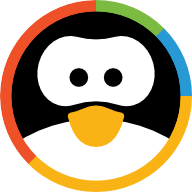
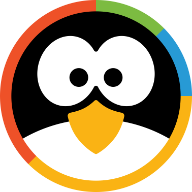
SEO, Abine Discount Code, Resources Updates, & More!
- Added Abine Discount code to resources
- SEO Updates
- Re-organized Official Accounts List, added 'inactive' section
- Added Bluesky & Teachable to our official accounts list
- Added KeePass client section to our resources
- Fixed favicons

diff --git a/about.html b/about.html
@@ -16,23 +16,23 @@
   <meta property="og:image" content="/assets/techlorePreview.png" />
   <meta property="og:type" content="website" />
   <meta property="og:url" content="https://techlore.tech/about"/>
-  <meta property="og:title" content="Techlore: Spreading Privacy To The Masses" />
-  <meta property="og:description" content="Techlore was built to prove privacy is not just achievable, but simple and accessible. Our mission is to spread privacy & security to the masses."/>
+  <meta property="og:title" content="About Techlore: Spreading Privacy To The Masses" />
+  <meta property="og:description" content="About Techlore and how we are spreading privacy & security to the masses."/>
 
   <link rel="stylesheet" href="assets/css/style.css?t=129" type="text/css">
   <title> Techlore | About </title>
-  <meta name="title" content="Techlore: Spreading Privacy To The Masses">
+  <meta name="title" content="About Techlore: Spreading Privacy To The Masses">
   <meta name="description"
-    content="Techlore was built to prove privacy is not just achievable, but simple and accessible. Our mission is to spread privacy & security to the masses." />
+    content="About Techlore and how we are spreading privacy & security to the masses." />
   <!-- Google / Search Engine Tags -->
   <meta itemprop="name" content=" Techlore | About ">
   <meta itemprop="description"
-    content="Techlore was built to prove privacy is not just achievable, but simple and accessible. Our mission is to spread privacy & security to the masses.">
+    content="About Techlore and how we are spreading privacy & security to the masses.">
   <meta itemprop="image" content="./assets/svg/logo_v2.svg"><!-- Twitter Meta Tags -->
   <meta name="twitter:card" content="summary_large_image">
-  <meta name="twitter:title" content=" Techlore | Spreading Privacy To The Masses ">
+  <meta name="twitter:title" content=" About Techlore | Spreading Privacy To The Masses ">
   <meta name="twitter:description"
-    content="Techlore was built to prove privacy is not just achievable, but simple and accessible. Our mission is to spread privacy & security to the masses.">
+    content="About Techlore and how we are spreading privacy & security to the masses.">
   <meta name="twitter:image" content="./assets/svg/logo_v2.svg">
 
   <!-- Organization/About Schema -->
@@ -371,39 +371,44 @@
             <br>
             Video Platforms:
             <a href="https://www.youtube.com/@techlore">YouTube</a> (<i><a href="https://www.youtube.com/@techlore">Techlore,</i></a>
-            <a href="https://www.youtube.com/@techloreclips"><i>TL Clips</i></a>)&nbsp;/&nbsp;
+            <a href="https://www.youtube.com/@techloreclips"><i>TL Clips&nbsp;</i></a>)&nbsp;•&nbsp;
             <a href="https://odysee.com/@techlore:3">Odysee</a> (<i><a href="https://odysee.com/@techlore:3">Techlore,</i></a> 
-            <a href="https://odysee.com/@techloreclips:2"><i>TL Clips)</i></a>&nbsp;/&nbsp;
-            <a href="https://neat.tube/c/techlore/videos?sort=-originallyPublishedAt">PeerTube</a>&nbsp;/&nbsp;
+            <a href="https://odysee.com/@techloreclips:2"><i>TL Clips&nbsp;</i></a>)&nbsp;•&nbsp;
+            <a href="https://neat.tube/c/techlore/videos?sort=-originallyPublishedAt">PeerTube</a>&nbsp;•&nbsp;
             <a href="https://www.tiktok.com/@techlore">TikTok</a>
             <br>
             <br>           
             Core Platforms:
-            <a href="https://github.com/techlore">GitHub</a>&nbsp;/&nbsp;
-            <a href="https://dispatch.techlore.tech/">Substack</a>&nbsp;/&nbsp;
-            <a href="https://www.linkedin.com/company/techloreyt/">LinkedIn</a>&nbsp;/&nbsp;
-            <a href="https://techlore.omg.lol">omg.lol</a>
+            <a href="https://github.com/techlore">GitHub</a>&nbsp;•&nbsp;
+            <a href="https://techlore.teachable.com/">Teachable</a>&nbsp;•&nbsp;
+            <a href="https://dispatch.techlore.tech/">Substack</a>&nbsp;•&nbsp;
+            <a href="https://www.linkedin.com/company/techloreyt/">LinkedIn</a>
             <br>
             <br>
             Communities:
-            <a href="https://discuss.techlore.tech/">Forum</a>&nbsp;/&nbsp;
+            <a href="https://discuss.techlore.tech/">Forum</a>&nbsp;•&nbsp;
             <a href="https://discord.techlore.tech/">Discord</a>
             <br>
             <br>
             Feeds:
-            <a href="https://social.lol/@techlore">Mastodon</a>&nbsp;/&nbsp;
-            <a href="https://twitter.com/techloreistaken">Twitter</a>&nbsp;/&nbsp;
-            <a href="https://www.reddit.com/r/techlore/">Reddit</a>&nbsp;/&nbsp;
-            <a href="https://matrix.to/#/%23techlore:matrix.org">Matrix Space</a> (<i><a href="https://archive.matrix.org/r/techlore-discussions:matrix.org">Room</a></i>)&nbsp;/&nbsp;
+            <a href="https://social.lol/@techlore">Mastodon</a>&nbsp;•&nbsp;
+            <a href="https://twitter.com/techloreistaken">Twitter</a>&nbsp;•&nbsp;
+            <a href="https://www.reddit.com/r/techlore/">Reddit</a>&nbsp;•&nbsp;
+            <a href="https://matrix.to/#/%23techlore:matrix.org">Matrix Space</a> (<i><a href="https://archive.matrix.org/r/techlore-discussions:matrix.org">Room&nbsp;</a></i>)&nbsp;•&nbsp;
             <a href="https://t.me/techlorefeed">Telegram</a>
             <br>
             <br>
-            Financials:
-            <a href="https://www.patreon.com/techlore">Patreon</a>&nbsp;/&nbsp;
-            <a href="https://shop.techlore.tech/">Shop</a>&nbsp;/&nbsp;
-            <a href="https://liberapay.com/Techlore/">Liberapay</a>&nbsp;/&nbsp;
-            <a href="https://www.paypal.com/donate?hosted_button_id=B3GU7WNGBGQ4J">PayPal</a>&nbsp;/&nbsp;
+            Finances:
+            <a href="https://www.patreon.com/techlore">Patreon</a>&nbsp;•&nbsp;
+            <a href="https://shop.techlore.tech/">Shop</a>&nbsp;•&nbsp;
+            <a href="https://liberapay.com/Techlore/">Liberapay</a>&nbsp;•&nbsp;
+            <a href="https://www.paypal.com/donate?hosted_button_id=B3GU7WNGBGQ4J">PayPal</a>&nbsp;•&nbsp;
             <a href="https://directories.onepercentfortheplanet.org/profile/techlore">1PFTP</a>
+            <br>
+            <br>
+            Inactive:
+            <a href="https://techlore.omg.lol">omg.lol</a>&nbsp;•&nbsp;
+            <a href="https://bsky.app/profile/techlore.bsky.social">Bluesky</a>
             </p>
           </div>
  

diff --git a/resources.html b/resources.html
@@ -469,7 +469,7 @@
           <ul>
             <a href="https://keepass.info/">
               <li><i style="background:#6CAC4D">
-                  <img src="./assets/logos/keepassxc.svg" alt="keepass"></i>&nbsp;&nbsp;
+                  <img src="./assets/logos/keepass.svg" alt="keepass"></i>&nbsp;&nbsp;
                   <div class="tooltip">
                     KeePass&nbsp;★
                     <div class="top">
@@ -512,6 +512,60 @@
             <a href="https://www.youtube.com/watch?v=jZr4u5nEZP4">
               <li><i style="background:#FF0000">
                   <img src="./assets/logos/youtube.svg" alt="youtube"></i>&nbsp;&nbsp;Go Incognito 3.4</li>
+            </a>
+          </ul>
+        </div>
+      </div>
+      <div class="col-4">
+        <div class="card">
+          <div id="keepass">
+            <a href="#keepass"><u>&nbsp;KeePass Clients&nbsp;</u></a>
+          </div>
+          <ul>
+            <a href="https://keepassxc.org/">
+              <li><i style="background:#7bab42">
+                  <img src="./assets/logos/keepassxc.svg" alt="keepassXC"></i>&nbsp;&nbsp;
+                  <div class="tooltip">
+                    KeePassXC&nbsp;★
+                    <div class="top">
+                      KeePassXC is a modern, secure, & customizable KeePass client available on all major desktop operating systems with active development.<br><br>
+                      <ul>
+                        <li>Open Source</li>
+                        <li>Free</li>
+                        <li>Windows & MacOS & Linux</li>
+                      </ul>
+                    </div>
+                  </div></li>
+            </a>
+            <a href="https://www.keepassdx.com/">
+              <li><i style="background:#44a047">
+                  <img src="./assets/logos/keepassdx.svg" alt="keepassDX"></i>&nbsp;&nbsp;
+                  <div class="tooltip">
+                    KeePassDX&nbsp;★
+                    <div class="top">
+                      KeePassDX is a KeePass client for Android available on F-Droid and the Google Play Store with a modern interface, active development, and strong trust in the community.<br><br>
+                      <ul>
+                        <li>Open Source</li>
+                        <li>Free</li>
+                        <li>Android</li>
+                      </ul>
+                    </div>
+                  </div></li>
+            </a>
+            <a href="https://strongboxsafe.com/">
+              <li><i style="background:#1446b0">
+                  <img src="./assets/logos/strongbox.svg" alt="strongbox"></i>&nbsp;&nbsp;
+                  <div class="tooltip">
+                    Strongbox&nbsp;★
+                    <div class="top">
+                      Strongbox is a beautiful KeePass client that integrates well with iOS & MacOS devices, even offering the option for E2EE syncing via iCloud for those using ADP.<br><br>
+                      <ul>
+                        <li>Open Source</li>
+                        <li>Free Tier</li>
+                        <li>iOS & MacOS</li>
+                      </ul>
+                    </div>
+                  </div></li>
             </a>
           </ul>
         </div>
@@ -1796,7 +1850,7 @@
                 <div class="tooltip">
                   Abine DeleteMe&nbsp;★
                   <div class="top">
-                    Abine DeleteMe offers a convenient service for users to remove their information from people-searching sites.<br><br>
+                    Abine DeleteMe offers a convenient service for users to remove their information from people-searching sites. They've been nice enough to offer a discount when you use code 'techlore' at checkout.<br><br>
                     <ul>
                       <li>Proprietary</li>
                       <li>Web</li>

diff --git a/index.html b/index.html
@@ -20,23 +20,23 @@
   <meta property="og:type" content="website" />
   <meta property="og:url" content="https://techlore.tech"/>
   <meta property="og:title" content="Techlore: Spreading Privacy To The Masses" />
-  <meta property="og:description" content="Techlore is home to many privacy and security projects: Go Incognito, the VPN Toolkit, Plexus, video reviews and tutorials, communities, and more!"/>
+  <meta property="og:description" content="Techlore was built to prove privacy & security are not just achievable - but simple and accessible. We produce projects, communities, and content to spread privacy & security to the masses."/>
 
 
   <link rel="stylesheet" href="assets/css/style.css?t=129" type="text/css">
   <title> Techlore | Spreading Privacy To The Masses </title>
   <meta name="title" content="Techlore: Spreading Privacy To The Masses">
   <meta name="description"
-    content="Techlore is home to many privacy and security projects: Go Incognito, the VPN Toolkit, Plexus, video reviews and tutorials, communities, and more!" />
+    content="Techlore was built to prove privacy & security are not just achievable - but simple and accessible. We produce projects, communities, and content to spread privacy & security to the masses." />
   <!-- Google / Search Engine Tags -->
   <meta itemprop="name" content=" Techlore | Home ">
   <meta itemprop="description"
-    content="Techlore is home to many privacy and security projects: Go Incognito, the VPN Toolkit, Plexus, video reviews and tutorials, communities, and more!">
+    content="Techlore was built to prove privacy & security are not just achievable - but simple and accessible. We produce projects, communities, and content to spread privacy & security to the masses.">
   <meta itemprop="image" content="./assets/svg/logo_v2.svg"><!-- Twitter Meta Tags -->
   <meta name="twitter:card" content="summary_large_image">
   <meta name="twitter:title" content=" Techlore | Spreading Privacy To The Masses ">
   <meta name="twitter:description"
-    content="Techlore is home to many privacy and security projects: Go Incognito, the VPN Toolkit, Plexus, video reviews and tutorials, communities, and more!">
+    content="Techlore was built to prove privacy & security are not just achievable - but simple and accessible. We produce projects, communities, and content to spread privacy & security to the masses.">
   <meta name="twitter:image" content="/assets/techlorePreview.png">
 
   <!-- Organization Schema -->

diff --git a/videos.html b/videos.html
@@ -14,23 +14,23 @@
   <meta property="og:image" content="/assets/techlorePreview.png" />
   <meta property="og:type" content="website" />
   <meta property="og:url" content="https://techlore.tech/videos"/>
-  <meta property="og:title" content="Techlore: Spreading Privacy To The Masses" />
-  <meta property="og:description" content="Get started with our video content on YouTube, Odysee, or PeerTube."/>
+  <meta property="og:title" content="Techlore Videos: Spreading Privacy To The Masses"/>
+  <meta property="og:description" content="Get started with Techlore video content on YouTube, PeerTube, and Odysee."/>
 
   <link rel="stylesheet" href="assets/css/style.css?t=129" type="text/css">
   <title> Techlore | Videos </title>
-  <meta name="title" content="Techlore: Spreading Privacy To The Masses">
+  <meta name="title" content="Techlore Videos: Spreading Privacy To The Masses">
   <meta name="description"
-    content="Get started with our video content on YouTube, Odysee, or PeerTube." />
+    content="Get started with Techlore video content on YouTube, PeerTube, and Odysee." />
   <!-- Google / Search Engine Tags -->
   <meta itemprop="name" content=" Techlore | Videos ">
   <meta itemprop="description"
-    content="Get started with our video content on YouTube, Odysee, or PeerTube.">
+    content="Get started with Techlore video content on YouTube, PeerTube, and Odysee.">
   <meta itemprop="image" content="./assets/svg/logo_v2.svg"><!-- Twitter Meta Tags -->
   <meta name="twitter:card" content="summary_large_image">
-  <meta name="twitter:title" content=" Techlore | Spreading Privacy To The Masses ">
+  <meta name="twitter:title" content="Techlore Videos: Spreading Privacy To The Masses">
   <meta name="twitter:description"
-    content="Get started with our video content on YouTube, Odysee, or PeerTube.">
+    content="Get started with Techlore video content on YouTube, PeerTube, and Odysee.">
   <meta name="twitter:image" content="./assets/svg/logo_v2.svg">
 
   <base target="_blank">

diff --git a/vpn.html b/vpn.html
@@ -17,23 +17,23 @@
   <meta property="og:type" content="website" />
   <meta property="og:url" content="https://techlore.tech/vpnchart.html"/>
   <meta property="og:title" content="Techlore VPN Toolkit" />
-  <meta property="og:description" content="The open source Techlore VPN Toolkit aims to bring transparency to the VPN industry."/>
+  <meta property="og:description" content="Transparent, open source VPN tools for your privacy & security."/>
 
   <link rel="stylesheet" href="assets/css/style.css?t=129" type="text/css">
   <link rel="stylesheet" href="assets/css/tabulator.min.css" type="text/css">
   <title> Techlore | VPN Toolkit: Open-Source Comparison Chart</title>
   <meta name="title" content="Techlore VPN Toolkit">
   <meta name="description"
-    content="The open source Techlore VPN Toolkit aims to bring transparency to the VPN industry." />
+    content="Transparent, open source VPN tools for your privacy & security." />
   <!-- Google / Search Engine Tags -->
   <meta itemprop="name" content=" Techlore | VPN Toolkit: Open-Source Comparison Chart ">
   <meta itemprop="description"
-    content="The open source Techlore VPN Toolkit aims to bring transparency to the VPN industry.">
+    content="Transparent, open source VPN tools for your privacy & security.">
   <meta itemprop="image" content="./assets/svg/logo_v2.svg"><!-- Twitter Meta Tags -->
   <meta name="twitter:card" content="summary_large_image">
-  <meta name="twitter:title" content=" Techlore | VPN Toolkit: Open-Source Comparison Chart ">
+  <meta name="twitter:title" content="Techlore VPN Toolkit">
   <meta name="twitter:description"
-    content="The open source Techlore VPN Toolkit aims to bring transparency to the VPN industry.">
+    content="Transparent, open source VPN tools for your privacy & security.">
   <meta name="twitter:image" content="./assets/svg/logo_v2.svg">
 
   <base target="_blank">
